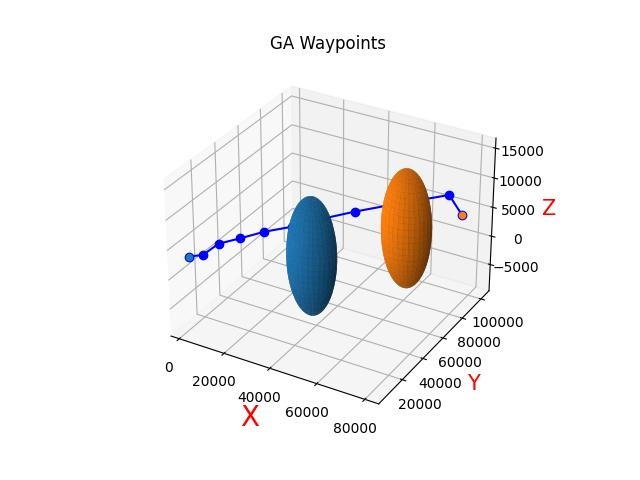
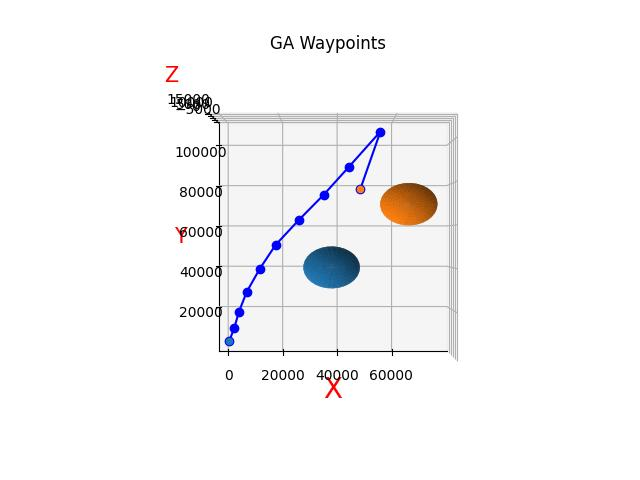
..

diff --git a/code/aerobench/AI_F16/AiPilot.py b/code/aerobench/AI_F16/AiPilot.py
@@ -97,14 +97,14 @@ def main():
     #     print("Plotting to the screen. To save a video, pass a command-line argument ending with '.mp4' or '.gif'.")
     #     exit()
 
-    filename = 'output.mp4'
+    filename = 'output.gif'
     print(f"saving result to '{filename}'")    
 
 
     # 起点和终点
     start = np.array([2000, 5000, 3500])
     # end = np.array([42000, 40000, 5000])
-    end = np.array([80000, 80000, 6000])
+    end = np.array([48000, 77000, 6000])
 
     # 我方飞机初始状态
     state = [400, deg2rad(2.15), 0, 0, 0, 0, 0, 0, 0, 0, 0, 3000, 9]
@@ -155,6 +155,8 @@ def main():
     ax.scatter(start[0], start[1], start[2], 'g')
     ax.scatter(end[0], end[1], end[2], 'r')
 
+    ax.view_init(azim=-90, elev=90)
+
     ax.plot_surface(threat_sphere1[0], threat_sphere1[1], threat_sphere1[2], linewidth=0.0)
     ax.plot_surface(threat_sphere2[0], threat_sphere2[1], threat_sphere2[2], linewidth=0.0)
     ax.plot3D(best_wpts[:, 0], best_wpts[:, 1], best_wpts[:, 2], 'blue', linestyle='-', marker='o')
@@ -174,9 +176,10 @@ def main():
 
     # 画实际航迹图
     anim3d.make_anim(res, filename, threat_list, f16_scale=100, viewsize=10000, viewsize_z=10000, trail_pts=np.inf,
-    elev=54, azim=-200, skip_frames=skip_override,
+    elev=90, azim=-90, skip_frames=skip_override,
     chase=True, fixed_floor=True, init_extra=init_extra, update_extra=update_extra)
-    
+    # elev=54, azim=-200
+
     # # 迭代次数加一
     # iteration = iteration + 1
 

diff --git a/code/aerobench/visualize/anim3d.py b/code/aerobench/visualize/anim3d.py
@@ -145,6 +145,8 @@ def make_anim(res, filename, threat, viewsize=1000, viewsize_z=1000, f16_scale=3
     ax.set_ylabel('Y [ft]', fontsize=14)
     ax.set_zlabel('Altitude [ft]', fontsize=14)
 
+    ax.view_init(azim=-90, elev=90)
+
     ax.plot_surface(threat[0][0], threat[0][1], threat[0][2], linewidth=0.0)
     ax.plot_surface(threat[1][0], threat[1][1], threat[1][2], linewidth=0.0)
 
@@ -350,7 +352,7 @@ def make_anim(res, filename, threat, viewsize=1000, viewsize_z=1000, f16_scale=3
             anim_obj.save(filename, dpi=60, writer='imagemagick') # dpi was 80
             print("Finished saving to {} in {:.1f} sec".format(filename, time.time() - start))
         else:
-            fps = 40
+            fps = 24
             codec = 'libx264'
 
             print("\nSaving '{}' at {:.2f} fps using ffmpeg with codec '{}'.".format(filename, fps, codec))

diff --git a/code/aerobench/AI_F16/FunFunctions.py b/code/aerobench/AI_F16/FunFunctions.py
@@ -95,6 +95,8 @@ def plot_point(pos_data):
     ax.set_ylabel('Y', fontdict={'size': 15, 'color': 'red'})
     ax.set_zlabel('Z', fontdict={'size': 15, 'color': 'red'})
 
+    ax.view_init(azim=-90, elev=90)
+
     ax.scatter(pos_data[:, 0], pos_data[:, 1], pos_data[:, 2], 'blue', marker='o')
     plt.show()
 

diff --git a/code/aerobench/visualize/plot.py b/code/aerobench/visualize/plot.py
@@ -70,7 +70,9 @@ def plot_overhead(run_sim_result, waypoints=None, llc=None):
 
     ax.set_ylabel('North / South Position (ft)')
     ax.set_xlabel('East / West Position (ft)')
-    
+
+    ax.view_init(azim=-90, elev=90)    
+
     ax.set_title('Overhead Plot')
 
     ax.axis('equal')

diff --git a/code/aerobench/AI_F16/MissleClass.py b/code/aerobench/AI_F16/MissleClass.py
@@ -56,6 +56,8 @@ def main():
     ax.set_ylabel('Y', fontdict={'size': 15, 'color': 'red'})
     ax.set_zlabel('Z', fontdict={'size': 15, 'color': 'red'})
 
+    ax.view_init(azim=-90, elev=90)
+
     while(1):
         distance = Euclid(target_pos, missle.pos)
 

diff --git a/code/aerobench/AI_F16/GaTest.py b/code/aerobench/AI_F16/GaTest.py
@@ -345,6 +345,7 @@ def main():
     ax.set_ylabel('Y', fontdict={'size': 15, 'color': 'red'})
     ax.set_zlabel('Z', fontdict={'size': 15, 'color': 'red'})
     
+    ax.view_init(azim=-90, elev=90)
 
     for i in range(len(gen_best)):
         plt.cla()
